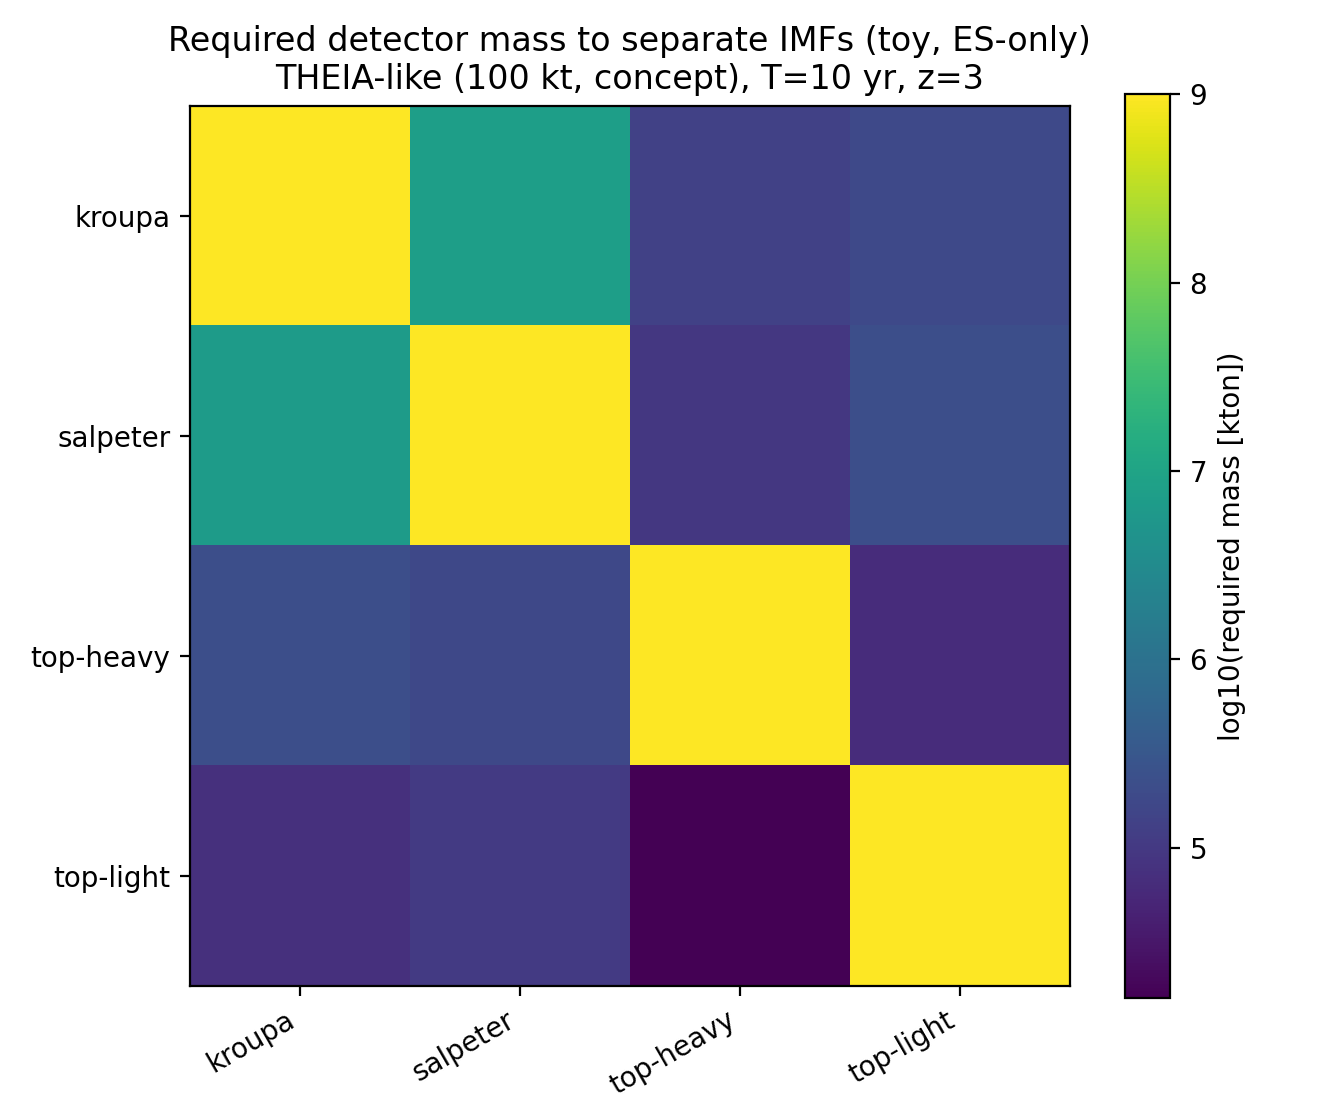
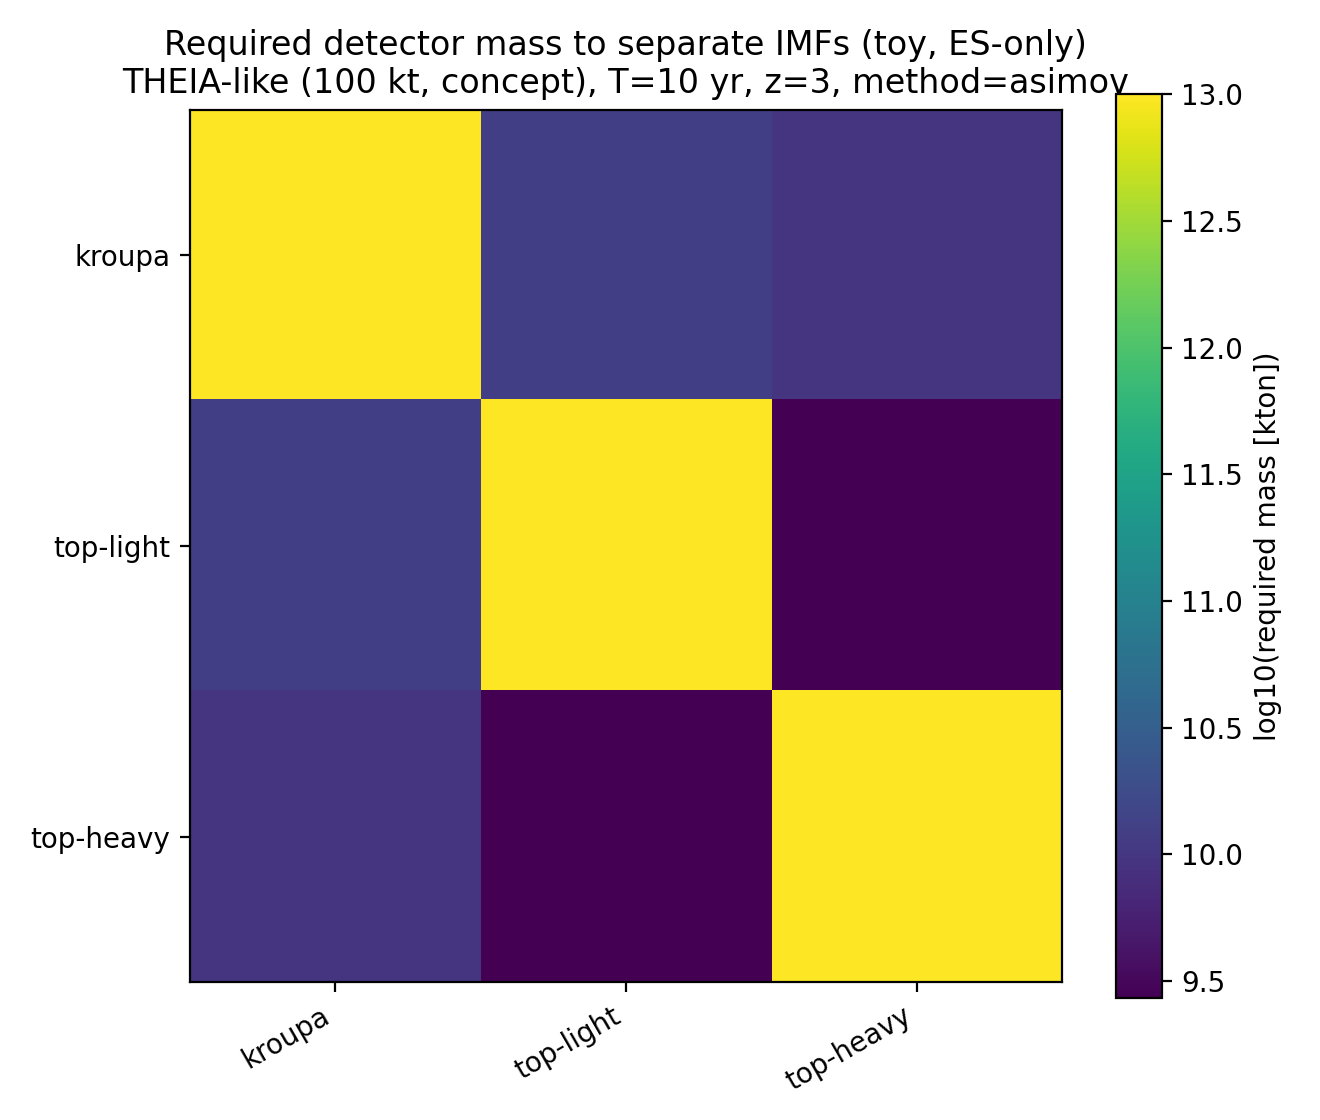
Add background-limited IMF constraint scaling

diff --git a/neutrino_project/imf_constraint.py b/neutrino_project/imf_constraint.py
@@ -5,33 +5,55 @@ from pathlib import Path
 
 import numpy as np
 
-from .detectability import DetectorPreset, detector_presets, estimate_detectability_at_time
+from .detectability import DetectorPreset, estimate_detectability_at_time
 
 
 @dataclass(frozen=True)
 class IMFConstraintResult:
     """
-    Simple IMF-discrimination summary for a signal-only Poisson counting experiment.
+    Simple IMF-discrimination summary for a toy Poisson counting experiment.
 
     This is a pedagogical tool:
-    - it ignores backgrounds unless you provide a background rate
+    - it can include a simple background model (background ∝ detector mass)
     - it assumes rates scale linearly with detector fiducial mass (true for ES target count)
     - it does not include systematics (SFR uncertainty, model uncertainty in Lnu, etc.)
     """
 
     imf_a: str
     imf_b: str
+    method: str
     detector_name: str
     exposure_years: float
     z_sigma: float
     base_mass_kton: float
     base_rate_a_per_year: float
     base_rate_b_per_year: float
+    include_background: bool
+    background_per_kton_year: float
     base_background_per_year: float
     required_mass_kton_for_z: float
 
 
-def required_scale_for_z(
+def _kl_divergence_poisson(lam_true: float, lam_alt: float) -> float:
+    """
+    KL divergence D(P_true || P_alt) for Poisson distributions with means lam_true and lam_alt:
+      D = lam_true * ln(lam_true/lam_alt) + lam_alt - lam_true
+    """
+    lt = float(lam_true)
+    la = float(lam_alt)
+    if lt < 0 or la < 0:
+        raise ValueError("Poisson means must be non-negative")
+    if lt == 0 and la == 0:
+        return 0.0
+    if la == 0 and lt > 0:
+        return float("inf")
+    if lt == 0:
+        # D(0 || la) = la
+        return la
+    return lt * np.log(lt / la) + la - lt
+
+
+def required_scale_for_z_asimov_symmetric(
     *,
     rate_a_per_year: float,
     rate_b_per_year: float,
@@ -40,13 +62,70 @@ def required_scale_for_z(
     z_sigma: float,
 ) -> float:
     """
-    Required multiplicative scale 's' on (signal + background) to achieve a z-sigma
-    separation using a simple Gaussianized Poisson approximation:
+    Required multiplicative scale 's' on (signal + background) to achieve a z-sigma separation,
+    using an Asimov (likelihood-ratio) approximation for two Poisson hypotheses.
 
-      |(s*ra - s*rb)*T| >= z * sqrt((s*ra + s*bkg)*T)
+    Let the *total* mean rates (signal+background) be:
+      R_a = ra + bkg
+      R_b = rb + bkg
+    Then the Poisson means over exposure T are:
+      λ_a = s * R_a * T
+      λ_b = s * R_b * T
 
-    Solve for s:
-      s >= z^2 * (ra + bkg) / ((ra - rb)^2 * T)
+    The Asimov separation for "a vs b" is:
+      Z(a||b) ≈ sqrt(2 * D(λ_a || λ_b))
+    where D is the Poisson KL divergence.
+
+    This function is symmetric: it returns the scale needed so that
+      min(Z(a||b), Z(b||a)) >= z_sigma.
+
+    Note: because D(sx||sy) = s D(x||y), the required scale is:
+      s >= z^2 / (2 * D0)
+    where D0 is computed at s=1.
+    """
+    ra = float(rate_a_per_year)
+    rb = float(rate_b_per_year)
+    bkg = float(background_per_year)
+    T = float(exposure_years)
+    z = float(z_sigma)
+
+    if T <= 0:
+        raise ValueError("exposure_years must be positive")
+    if z <= 0:
+        raise ValueError("z_sigma must be positive")
+    if ra < 0 or rb < 0 or bkg < 0:
+        raise ValueError("rates must be non-negative")
+
+    lam_a = (ra + bkg) * T
+    lam_b = (rb + bkg) * T
+    if lam_a == lam_b:
+        return float("inf")
+
+    d_ab = _kl_divergence_poisson(lam_a, lam_b)
+    d_ba = _kl_divergence_poisson(lam_b, lam_a)
+    d0 = min(d_ab, d_ba)
+    if d0 <= 0:
+        return float("inf")
+
+    return (z * z) / (2.0 * d0)
+
+
+def required_scale_for_z_gaussian_symmetric(
+    *,
+    rate_a_per_year: float,
+    rate_b_per_year: float,
+    background_per_year: float,
+    exposure_years: float,
+    z_sigma: float,
+) -> float:
+    """
+    Required scale using a simple Gaussianized Poisson approximation.
+
+    For each "true" hypothesis (a or b), require:
+      |μ_a - μ_b| >= z * sqrt(μ_true)
+    where μ_true = (s*(r_true + bkg))*T and μ's include background.
+
+    Returns the larger (more conservative) scale needed across both truth assignments.
     """
     ra = float(rate_a_per_year)
     rb = float(rate_b_per_year)
@@ -65,7 +144,19 @@ def required_scale_for_z(
     if dr <= 0:
         return float("inf")
 
-    return (z * z) * (ra + bkg) / ((dr * dr) * T)
+    # s >= z^2 * (r_true + bkg) / ((ra-rb)^2 * T)
+    s_a = (z * z) * (ra + bkg) / ((dr * dr) * T)
+    s_b = (z * z) * (rb + bkg) / ((dr * dr) * T)
+    return max(s_a, s_b)
+
+
+def _method_to_scale_fn(method: str):
+    m = method.strip().lower()
+    if m in ("asimov", "llr", "likelihood"):
+        return required_scale_for_z_asimov_symmetric, "asimov"
+    if m in ("gaussian", "gauss", "normal"):
+        return required_scale_for_z_gaussian_symmetric, "gaussian"
+    raise ValueError(f"Unknown method={method!r}. Use 'asimov' or 'gaussian'.")
 
 
 def imf_constraint_matrix(
@@ -75,7 +166,9 @@ def imf_constraint_matrix(
     detector: DetectorPreset,
     exposure_years: float,
     z_sigma: float = 3.0,
-    background_per_year: float = 0.0,
+    include_background: bool = True,
+    background_per_kton_year: float = 0.0,
+    method: str = "asimov",
     # model parameters
     sfr_msun_per_yr: float = 2.0,
     t_obs_myr: float = 20.0,
@@ -98,6 +191,8 @@ def imf_constraint_matrix(
     if not imfs:
         raise ValueError("imfs must be non-empty")
 
+    scale_fn, method_name = _method_to_scale_fn(method)
+
     # Compute base rates at the given detector mass for each IMF.
     rates = {}
     for imf in imfs:
@@ -119,33 +214,37 @@ def imf_constraint_matrix(
         rates[imf] = d.events_per_year_by_detector[detector.name]
 
     base_mass = float(detector.fiducial_mass_kton)
+    bkg_per_year_base = float(background_per_kton_year) * base_mass if include_background else 0.0
     results: list[IMFConstraintResult] = []
     mat = np.full((len(imfs), len(imfs)), np.nan, dtype=float)
     for i, a in enumerate(imfs):
         for j, b in enumerate(imfs):
             ra = float(rates[a])
             rb = float(rates[b])
-            scale = required_scale_for_z(
+            scale = scale_fn(
                 rate_a_per_year=ra,
                 rate_b_per_year=rb,
-                background_per_year=background_per_year,
+                background_per_year=bkg_per_year_base,
                 exposure_years=exposure_years,
                 z_sigma=z_sigma,
             )
-            req_mass = float("inf") if not np.isfinite(scale) else base_mass * max(1.0, scale)
+            req_mass = float("inf") if not np.isfinite(scale) else base_mass * max(0.0, scale)
             mat[i, j] = req_mass
             if i < j:
                 results.append(
                     IMFConstraintResult(
                         imf_a=a,
                         imf_b=b,
+                        method=method_name,
                         detector_name=detector.name,
                         exposure_years=float(exposure_years),
                         z_sigma=float(z_sigma),
                         base_mass_kton=base_mass,
                         base_rate_a_per_year=ra,
                         base_rate_b_per_year=rb,
-                        base_background_per_year=float(background_per_year),
+                        include_background=bool(include_background),
+                        background_per_kton_year=float(background_per_kton_year),
+                        base_background_per_year=float(bkg_per_year_base),
                         required_mass_kton_for_z=req_mass,
                     )
                 )
@@ -155,4 +254,3 @@ def imf_constraint_matrix(
 def default_future_detector() -> DetectorPreset:
     # A deliberately "hopeful" concept-scale benchmark.
     return DetectorPreset(name="THEIA-like (100 kt, concept)", fiducial_mass_kton=100.0)
-

diff --git a/run_pipeline.py b/run_pipeline.py
@@ -114,7 +114,13 @@ class Config:
     reference_distance_pc: float = 200.0
     constraint_exposure_years: float = 10.0
     constraint_z_sigma: float = 3.0
-    constraint_background_per_year: float = 0.0
+    constraint_imfs: tuple[str, ...] = ("kroupa", "top-light", "top-heavy")
+    constraint_method: str = "asimov"  # "asimov" (LLR) or "gaussian"
+    constraint_include_background: bool = True
+    # Background model: background scales linearly with detector mass (kton).
+    # This is an "effective" residual background after cuts, in events per (kton*year).
+    # Set to 0.0 (or constraint_include_background=False) to remove backgrounds entirely.
+    constraint_background_per_kton_year: float = 1.0
 
     # Optional: isochrone file for the HR plot (included in this repo)
     isochrone_dat: Path = Path("data/parsec/isochrones/parsec_cmd39_v1p2s_Z0p0152_logAge7p0.dat")
@@ -281,17 +287,23 @@ def main() -> None:
         # Question: if detection were feasible, could the rate constrain the IMF?
         # Here we compute a simple required detector mass (kton water-equivalent)
         # to separate IMF pairs at z_sigma after an exposure.
+        #
+        # Important: this treats the SFR and the phase-window model as fixed inputs.
+        # In a more complete analysis they would be inferred jointly (with EM priors, e.g. Gaia),
+        # which can reduce or increase IMF discriminability depending on degeneracies.
         out_matrix_csv = CFG.out_dir / "imf_constraint_required_mass.csv"
         out_matrix_png = CFG.out_dir / "imf_constraint_required_mass.png"
 
         det = default_future_detector()
         res_list, mat = imf_constraint_matrix(
             phases_csv=CFG.phases_csv,
-            imfs=list(CFG.imfs),
+            imfs=list(CFG.constraint_imfs),
             detector=det,
             exposure_years=CFG.constraint_exposure_years,
             z_sigma=CFG.constraint_z_sigma,
-            background_per_year=CFG.constraint_background_per_year,
+            include_background=CFG.constraint_include_background,
+            background_per_kton_year=CFG.constraint_background_per_kton_year,
+            method=CFG.constraint_method,
             sfr_msun_per_yr=CFG.sfr_msun_per_yr,
             t_obs_myr=CFG.duration_myr,
             radius_kpc=CFG.radius_kpc,
@@ -312,9 +324,12 @@ def main() -> None:
                 fieldnames=[
                     "imf_a",
                     "imf_b",
+                    "method",
                     "detector_name",
                     "exposure_years",
                     "z_sigma",
+                    "include_background",
+                    "background_per_kton_year",
                     "base_background_per_year",
                     "base_mass_kton",
                     "base_rate_a_per_year",
@@ -337,15 +352,16 @@ def main() -> None:
 
         fig, ax = plt.subplots(figsize=(6.6, 5.6))
         # Use log10 scale for readability; cap huge values.
-        mat_plot = np.log10(np.clip(mat, 1.0, 1e9))
+        mat_plot = np.log10(np.clip(mat, 1e-3, 1e13))
         im = ax.imshow(mat_plot, cmap="viridis")
-        ax.set_xticks(range(len(CFG.imfs)))
-        ax.set_yticks(range(len(CFG.imfs)))
-        ax.set_xticklabels(list(CFG.imfs), rotation=30, ha="right")
-        ax.set_yticklabels(list(CFG.imfs))
+        ax.set_xticks(range(len(CFG.constraint_imfs)))
+        ax.set_yticks(range(len(CFG.constraint_imfs)))
+        ax.set_xticklabels(list(CFG.constraint_imfs), rotation=30, ha="right")
+        ax.set_yticklabels(list(CFG.constraint_imfs))
         ax.set_title(
             f"Required detector mass to separate IMFs (toy, ES-only)\n"
-            f"{det.name}, T={CFG.constraint_exposure_years:g} yr, z={CFG.constraint_z_sigma:g}"
+            f"{det.name}, T={CFG.constraint_exposure_years:g} yr, z={CFG.constraint_z_sigma:g}, "
+            f"method={CFG.constraint_method}"
         )
         cbar = fig.colorbar(im, ax=ax)
         cbar.set_label("log10(required mass [kton])")

diff --git a/README.md b/README.md
@@ -57,8 +57,16 @@ so you can see what the plots look like without running anything.
 
 ### “Could this constrain the IMF?” (toy)
 
-This is a *very optimistic* signal-only calculation: it tells you how big a detector would need to be
-to separate two IMFs **if** backgrounds could be suppressed well enough.
+This is a toy “IMF discriminability” calculation for the **Kroupa / top-light / top-heavy** IMFs.
+It estimates how large a detector would need to be to separate two IMF hypotheses at a chosen
+significance after a chosen exposure time.
+
+It supports two modes:
+- **signal-only** (set background to zero): optimistic upper limit
+- **background-limited** (background ∝ detector mass): more realistic scaling for MeV detectors
+
+Backgrounds are parameterized as an **effective residual background rate** in
+`events / (kton * year)` (after whatever cuts you assume). Set it to `0.0` to remove backgrounds.
 
 ![](figures/imf_constraint_required_mass.png)
 
